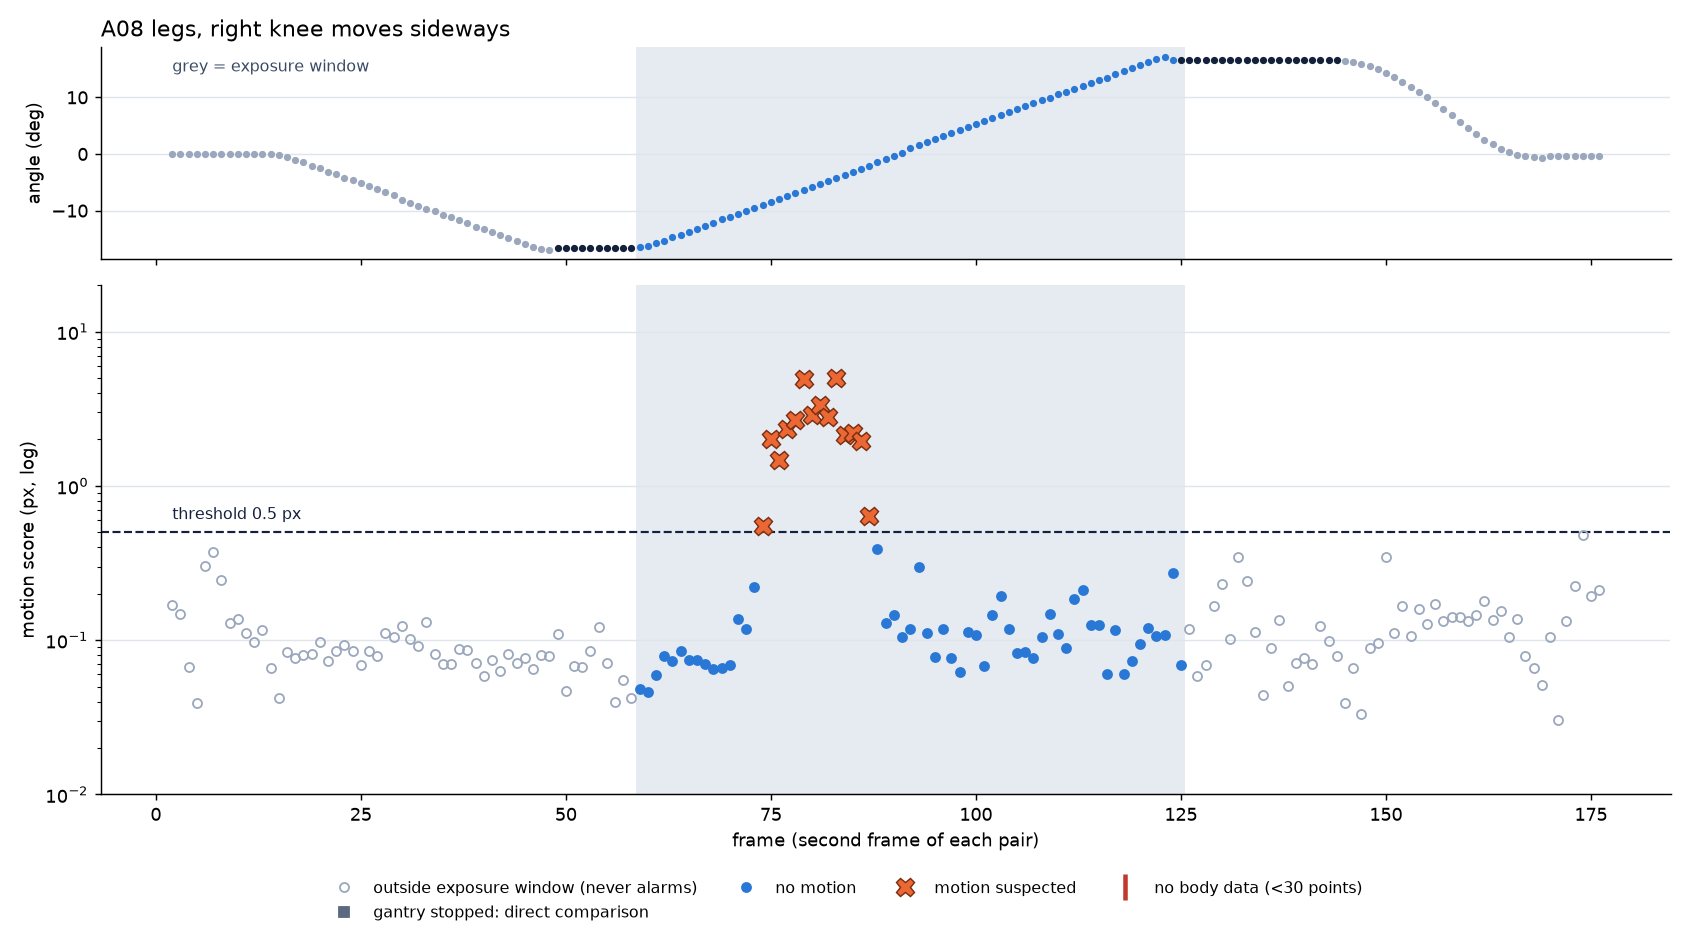
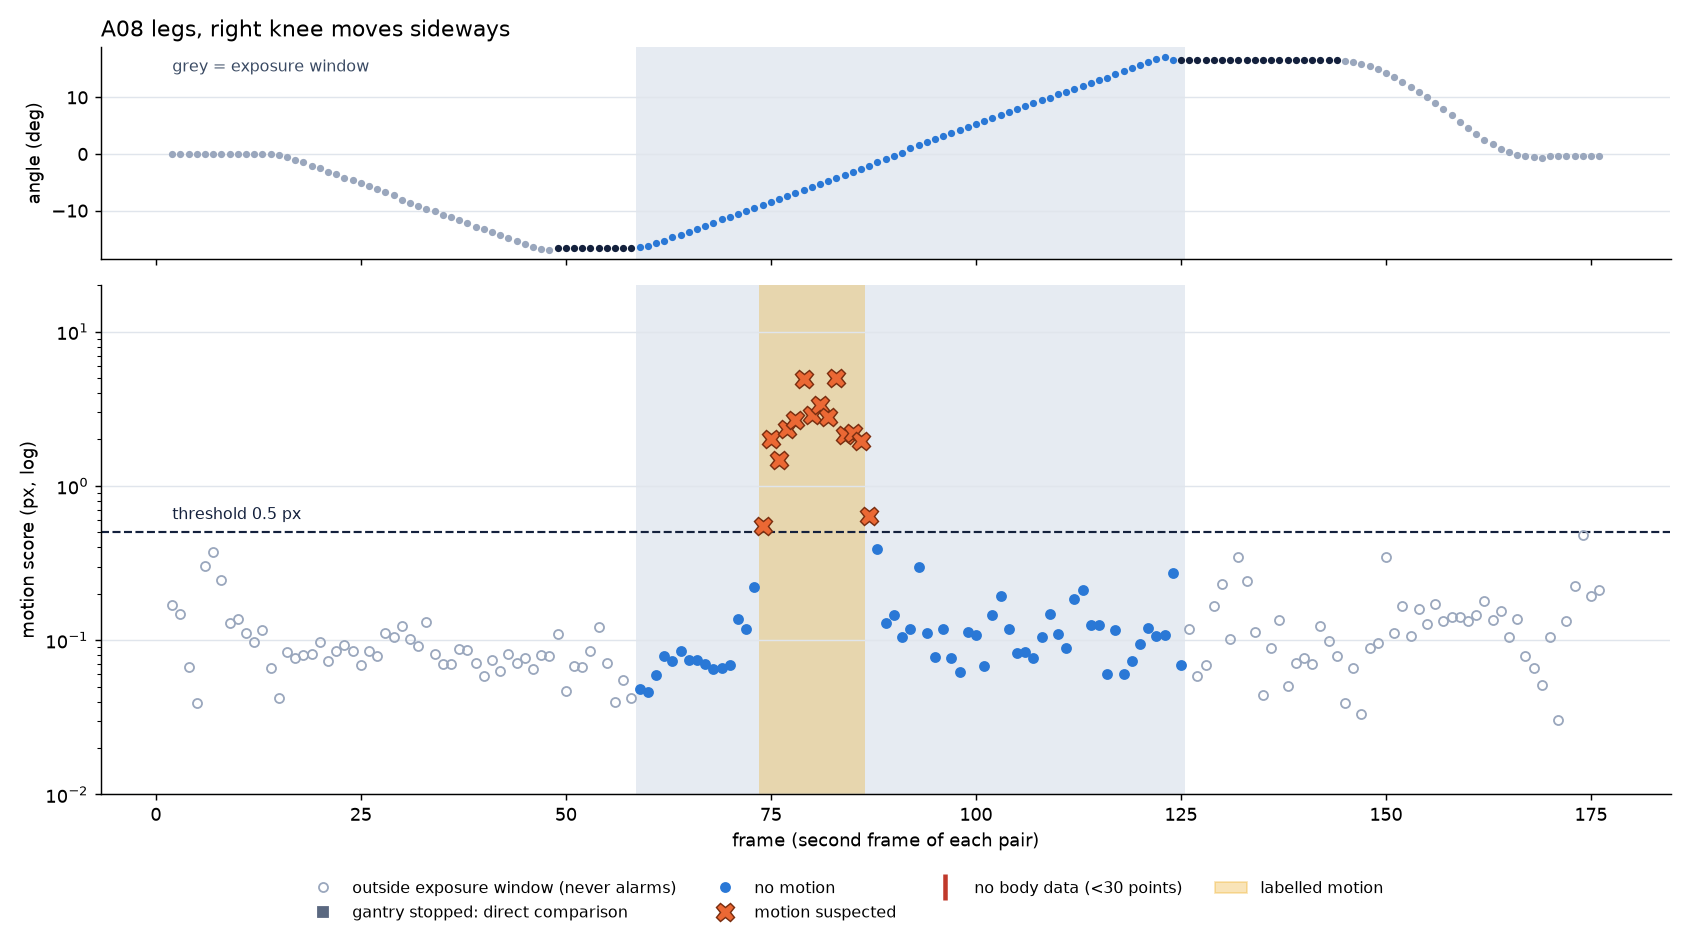
A08: add labelled range to plot and README
Claude-Session: https://claude.ai/code/session_01B33XwERzqgqNtM6tXR4W1H

Changed region(s): [[0.4308, 0.2788, 0.5231, 0.8675], [0.1846, 0.9295, 0.5231, 0.9915], [0.5231, 0.9295, 0.8308, 0.9605]]

diff --git a/motion_detection/results/volunteers_A07_A12_2026_10/README.md b/motion_detection/results/volunteers_A07_A12_2026_10/README.md
@@ -12,3 +12,9 @@
 אין NO_BODY_DATA באף אחת. כל החשדות בתוך החלון נתמכים ברקע (VERIFIED).
 
 `../union_check_2026_10`: אותה הרצה (מסכה מאוחדת) על A28_1, A26, legs_static ו-VC01 עצירת נשימה. התוצאות זהות להרצה עם המסכה הרגילה, זוג אחר זוג.
+
+## A08: תיוג
+התנועה מסתיימת במעבר 85→86 (זוג 86). ההתחלה נמסרה כ"73 ל-73", כנראה 72→73 או 73→74, כלומר זוג 73 או 74. בגרף מסומן 74–86.
+- 74–86: כל 13 הזוגות זוהו (ציון 0.55–5.03).
+- אם ההתחלה היא זוג 73: ציון 0.22, לא זוהה.
+- מחוץ לתיוג: 87 (0.64), צמוד לסוף.
